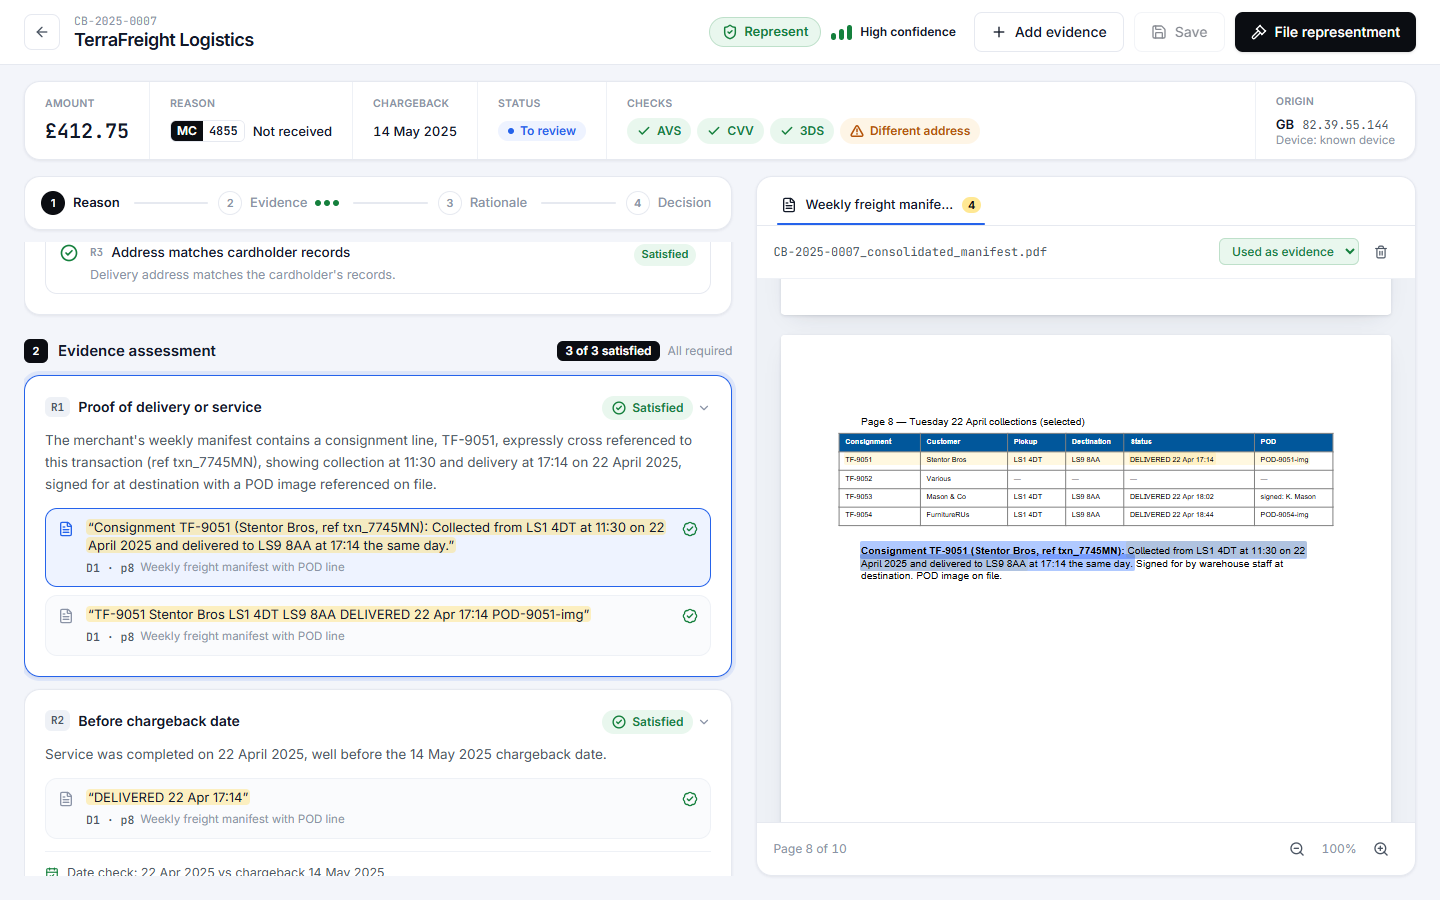
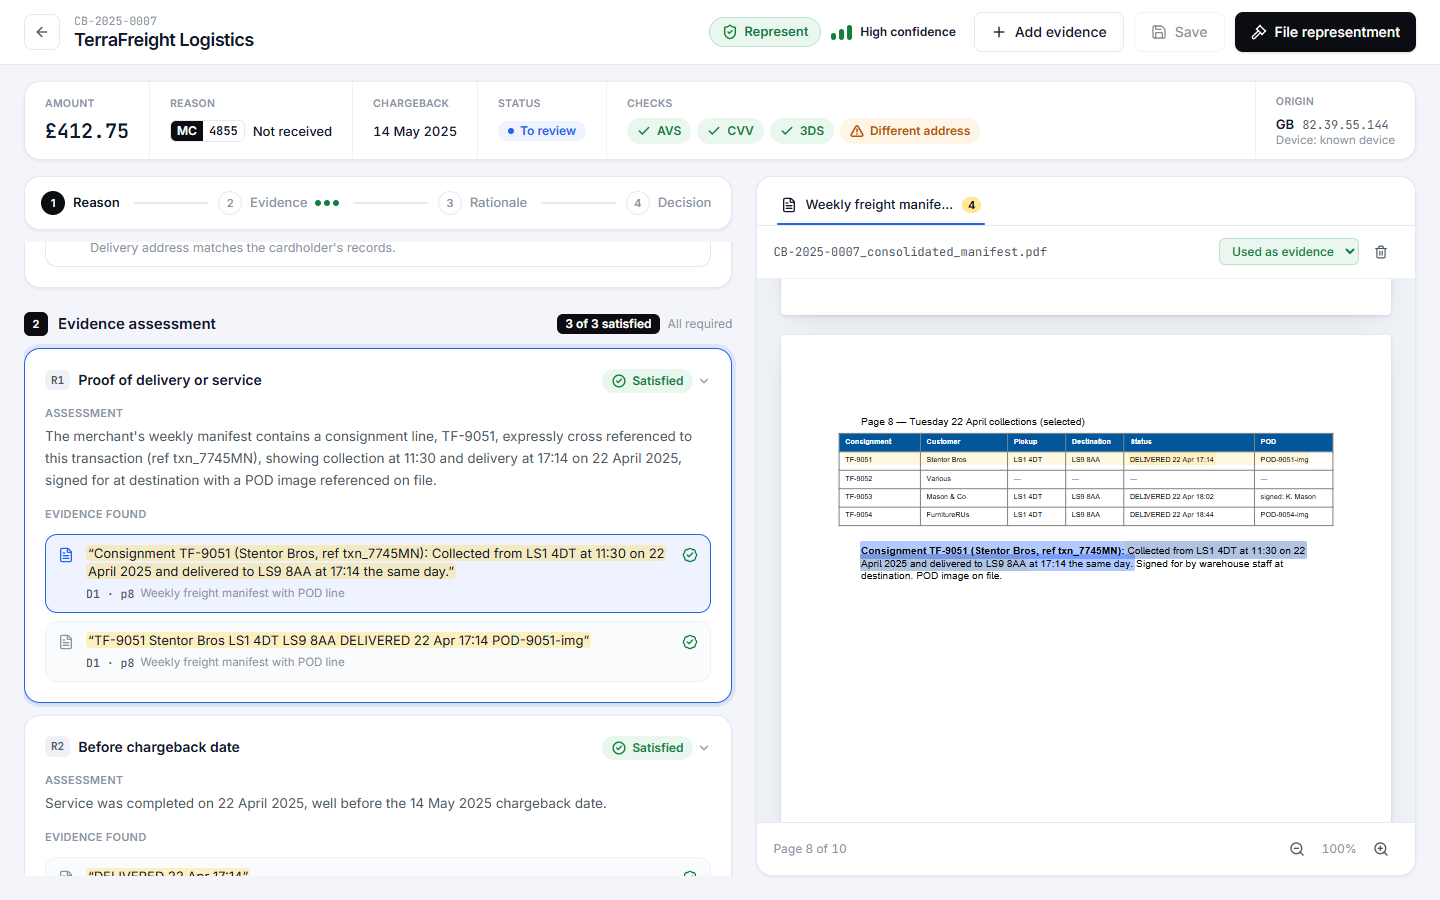
Evidence cards as a structured assessment with how to fix each gap; confidence reasons on hover

diff --git a/frontend/src/pages/analysis/Evidence.tsx b/frontend/src/pages/analysis/Evidence.tsx
@@ -5,6 +5,7 @@ import {
   CalendarCheck,
   CalendarX,
   ChevronDown,
+  CircleAlert,
   CircleCheck,
   Database,
   Eye,
@@ -17,7 +18,7 @@ import {
   RotateCcw,
   ShieldAlert,
 } from 'lucide-react'
-import { useEffect, useRef, useState } from 'react'
+import { type ReactNode, useEffect, useRef, useState } from 'react'
 import { Card, SectionTitle, Tooltip } from '../../components/ui'
 import { VERDICT, VerdictBadge } from '../../components/status'
 import type { Requirement, Verdict, Workup } from '../../lib/types'
@@ -141,10 +142,14 @@ function RequirementCard({ req, docs, previous, verdictOf, override, onOverride,
           onChange={(v, note) => onOverride(req.id, v, note)} />
       </div>
 
-      <p className="mt-2.5 text-[13.5px] leading-relaxed text-text-2">{req.finding}</p>
+      <div className="mt-3">
+        <BlockLabel>Assessment</BlockLabel>
+        <p className="text-[13.5px] leading-relaxed text-text-2">{req.finding}</p>
+      </div>
 
       {mine.length > 0 && (
-        <div className="mt-3 flex flex-col gap-2">
+        <div className="mt-3.5 flex flex-col gap-2">
+          <BlockLabel>Evidence found</BlockLabel>
           {mine.map((c) => (
             <EvidenceChip key={c.key} cite={c} docs={docs} active={active?.key === c.key} onClick={() => onActivate(c)} />
           ))}
@@ -185,27 +190,39 @@ function RequirementCard({ req, docs, previous, verdictOf, override, onOverride,
 }
 
 /** What the evidence still lacks, and whether asking the merchant can close the gap. */
+function BlockLabel({ children }: { children: ReactNode }) {
+  return <p className="mb-1 text-[11px] font-semibold tracking-wide text-muted uppercase">{children}</p>
+}
+
+/** What the evidence still lacks, and how (or whether) the gap can be closed. */
 function GapFooter({ gap, fixable, partial, notNeeded }: { gap: string; fixable: boolean; partial: boolean; notNeeded: boolean }) {
   if (notNeeded) {
     return (
-      <p className="mt-3 flex items-center gap-2 border-t border-line-2 pt-3 text-[12.5px] text-muted">
+      <p className="mt-4 flex items-center gap-2 border-t border-line-2 pt-3 text-[12.5px] text-muted">
         <CircleCheck className="size-3.5 shrink-0 text-ok" />
         Not needed for this case: enough requirements are already proven.
       </p>
     )
   }
   return (
-    <div className="mt-4 overflow-hidden rounded-xl border border-line">
-      <div className="px-3.5 py-2.5">
-        <p className="text-[11px] font-semibold tracking-wide text-muted uppercase">{partial ? 'Still needed' : 'What’s missing'}</p>
-        <p className="mt-1 text-[13px] leading-snug text-text">{gap}</p>
+    <div className="mt-4 grid overflow-hidden rounded-xl border border-line sm:grid-cols-2">
+      <div className="px-3.5 py-3">
+        <p className="mb-1 flex items-center gap-1.5 text-[11px] font-semibold tracking-wide text-muted uppercase">
+          <CircleAlert className={clsx('size-3.5', partial ? 'text-warn' : 'text-bad')} />
+          {partial ? 'Still needed' : 'What’s missing'}
+        </p>
+        <p className="text-[13px] leading-snug text-text">{gap}</p>
       </div>
-      <div className={clsx('flex items-start gap-2 border-t px-3.5 py-2 text-[12.5px] leading-snug', fixable ? 'border-warn/15 bg-warn-soft/70 text-warn' : 'border-line bg-line-2/70 text-text-2')}>
-        {fixable ? <MailPlus className="mt-px size-3.5 shrink-0" /> : <Lock className="mt-px size-3.5 shrink-0" />}
-        <span>
-          <span className="font-semibold">{fixable ? 'The merchant can fix this.' : 'This can’t be fixed.'}</span>{' '}
-          {fixable ? 'Ask them for it and add it with Add evidence.' : 'The facts won’t change, so more documents won’t help.'}
-        </span>
+      <div className={clsx('border-t px-3.5 py-3 sm:border-t-0 sm:border-l', fixable ? 'border-warn/15 bg-warn-soft/70' : 'border-line bg-line-2/70')}>
+        <p className={clsx('mb-1 flex items-center gap-1.5 text-[11px] font-semibold tracking-wide uppercase', fixable ? 'text-warn' : 'text-text-2')}>
+          {fixable ? <MailPlus className="size-3.5" /> : <Lock className="size-3.5" />}
+          {fixable ? 'How to fix it' : 'Can’t be fixed'}
+        </p>
+        <p className="text-[13px] leading-snug text-text">
+          {fixable
+            ? 'Ask the merchant for what’s listed here, then upload it with Add evidence. The case is re-analysed with it.'
+            : 'These are facts of the transaction that won’t change, so more documents won’t help this requirement.'}
+        </p>
       </div>
     </div>
   )

diff --git a/frontend/src/pages/analysis/Sections.tsx b/frontend/src/pages/analysis/Sections.tsx
@@ -1,6 +1,6 @@
 import clsx from 'clsx'
 import { AnimatePresence, motion } from 'framer-motion'
-import { Check, ChevronDown, Copy, History, Info, Mail, MessageSquareQuote, Plus, RotateCcw, Scale, Sparkles, X } from 'lucide-react'
+import { ChevronDown, Copy, History, Mail, MessageSquareQuote, Plus, RotateCcw, Scale, Sparkles, X } from 'lucide-react'
 import { useLayoutEffect, useRef, useState } from 'react'
 import { ACTION, ConfidenceMeter, SchemeBadge, VERDICT } from '../../components/status'
 import { Button, Card, SectionTitle, Tooltip } from '../../components/ui'
@@ -343,48 +343,8 @@ export function ActionSection({ workup, action, onAction, reason, onReason, just
           )}
         </AnimatePresence>
 
-        <ConfidenceBreakdown confidence={d.confidence} />
       </div>
     </section>
-  )
-}
-
-/** How the confidence label was reached: every check, passed or failed, and the notes that don't count. */
-function ConfidenceBreakdown({ confidence }: { confidence: Workup['decision']['confidence'] }) {
-  const checks = confidence.checks
-  return (
-    <div className="mt-4 border-t border-white/15 pt-3 text-[12.5px]">
-      <p className="text-[11px] font-semibold tracking-wide text-white/60 uppercase">How confidence is worked out</p>
-      {checks ? (
-        <>
-          <p className="mt-1 leading-snug text-white/70">Starts at High. Each failed check lowers it one level: none failed is High, one is Medium, two or more is Low.</p>
-          <ul className="mt-2 space-y-1">
-            {checks.map((c) => (
-              <li key={c.label} className="flex items-start gap-2">
-                {c.passed ? <Check className="mt-0.5 size-3.5 shrink-0 text-[#86efac]" strokeWidth={2.6} /> : <X className="mt-0.5 size-3.5 shrink-0 text-[#fca5a5]" strokeWidth={2.6} />}
-                <span className={c.passed ? 'text-white/80' : 'font-semibold text-white'}>{c.label}</span>
-              </li>
-            ))}
-          </ul>
-        </>
-      ) : (
-        <ul className="mt-2 space-y-1 text-white/80">
-          {confidence.reasons.map((r) => (
-            <li key={r}>{r}</li>
-          ))}
-        </ul>
-      )}
-      {confidence.notes.length > 0 && (
-        <ul className="mt-2 space-y-1 text-white/60">
-          {confidence.notes.map((n) => (
-            <li key={n} className="flex items-start gap-2">
-              <Info className="mt-0.5 size-3.5 shrink-0" />
-              <span>{n} (for information, doesn’t change confidence)</span>
-            </li>
-          ))}
-        </ul>
-      )}
-    </div>
   )
 }
 

diff --git a/frontend/src/pages/analysis/AnalysisPage.tsx b/frontend/src/pages/analysis/AnalysisPage.tsx
@@ -658,7 +658,19 @@ function Header({ detail, action, dirty, saving, readOnly, completed, onSave, on
                 </span>
               </Tooltip>
             )}
-            <Tooltip text="How sure the tool is about this recommendation. The checks behind it are under Recommended action." side="bottom">
+            <Tooltip
+              text={
+                <>
+                  <span className="font-semibold">Why {workup.decision.confidence.level.toLowerCase()} confidence</span>
+                  {workup.decision.confidence.reasons.map((r) => (
+                    <span key={r} className="block">
+                      {r}
+                    </span>
+                  ))}
+                </>
+              }
+              side="bottom"
+            >
               <ConfidenceMeter level={workup.decision.confidence.level} />
             </Tooltip>
           </div>

diff --git a/WALKTHROUGH.md b/WALKTHROUGH.md
@@ -51,9 +51,9 @@ Case **CB-2025-0002**: the only proof of delivery is a screenshot.
 Case **CB-2025-0006** (armchair "not as described"):
 
 1. **Reason code**: what the code means, the issuer's claim in this case (the issuer's original words on hover), and a "To defend" checklist. The checklist says how many items the merchant must prove and counts how many are proven.
-2. **Evidence assessment**: R1 satisfied (the listing); R2 partial (a front-view photo can't show a wobbling frame); R3 missing (the returns policy describes a route, but nothing shows what happened to the cardholder's request). Each partial or missing card ends with what's still needed and whether the merchant can fix it.
+2. **Evidence assessment**: R1 satisfied (the listing); R2 partial (a front-view photo can't show a wobbling frame); R3 missing (the returns policy describes a route, but nothing shows what happened to the cardholder's request). Each card shows the assessment and the evidence found; partial or missing ones end with what's missing and how to fix it (or why it can't be fixed).
 3. **Representment rationale**: numbered points, each editable, ready to file after a light edit.
-4. **Recommended action**: Request more evidence, with what that means, the justification, and how confidence was worked out (each check with a tick or a cross).
+4. **Recommended action**: Request more evidence, with what that means and the justification. Hovering the confidence label shows why it's Low.
 5. **Merchant requests**: specific asks, with *Copy as email*.
 
 ---

diff --git a/README.md b/README.md
@@ -83,7 +83,7 @@ So it's a mix: PyMuPDF for PDF text and positions, a vision model to read images
 - Confidence is shown with its reasons, for example "key evidence read from an image".
 - "Not relevant" is kept separate from "missing", so a merchant's own fraud score shows as uploaded but irrelevant, with the reason.
 - Heads-up chips cover what's easy to miss: conflicts, deep pages, rules that decide the outcome, linked cases.
-- Every partial or missing requirement says what's still needed and whether the merchant could fix it.
+- Every partial or missing requirement ends with what's missing and how to fix it, or why it can't be fixed.
 
 **How confidence is calculated** (`decide.py`, `score_confidence`). Confidence is about the recommended action. It starts at High and each failed check lowers it one level (none failed: High, one: Medium, two or more: Low):
 
@@ -93,7 +93,7 @@ So it's a mix: PyMuPDF for PDF text and positions, a vision model to read images
 4. The rule check and the AI recommendation agree.
 5. When accepting a case that could be represented, no requirement is partly met (otherwise it may be closer than it looks).
 
-Data inconsistencies, such as a time-zone difference, are shown as notes but don't change the level. The case page lists every check with a tick or a cross.
+Data inconsistencies, such as a time-zone difference, are shown as notes but don't change the level. Hovering the confidence label on a case shows the reasons.
 
 ## Results on the 10 cases
 
